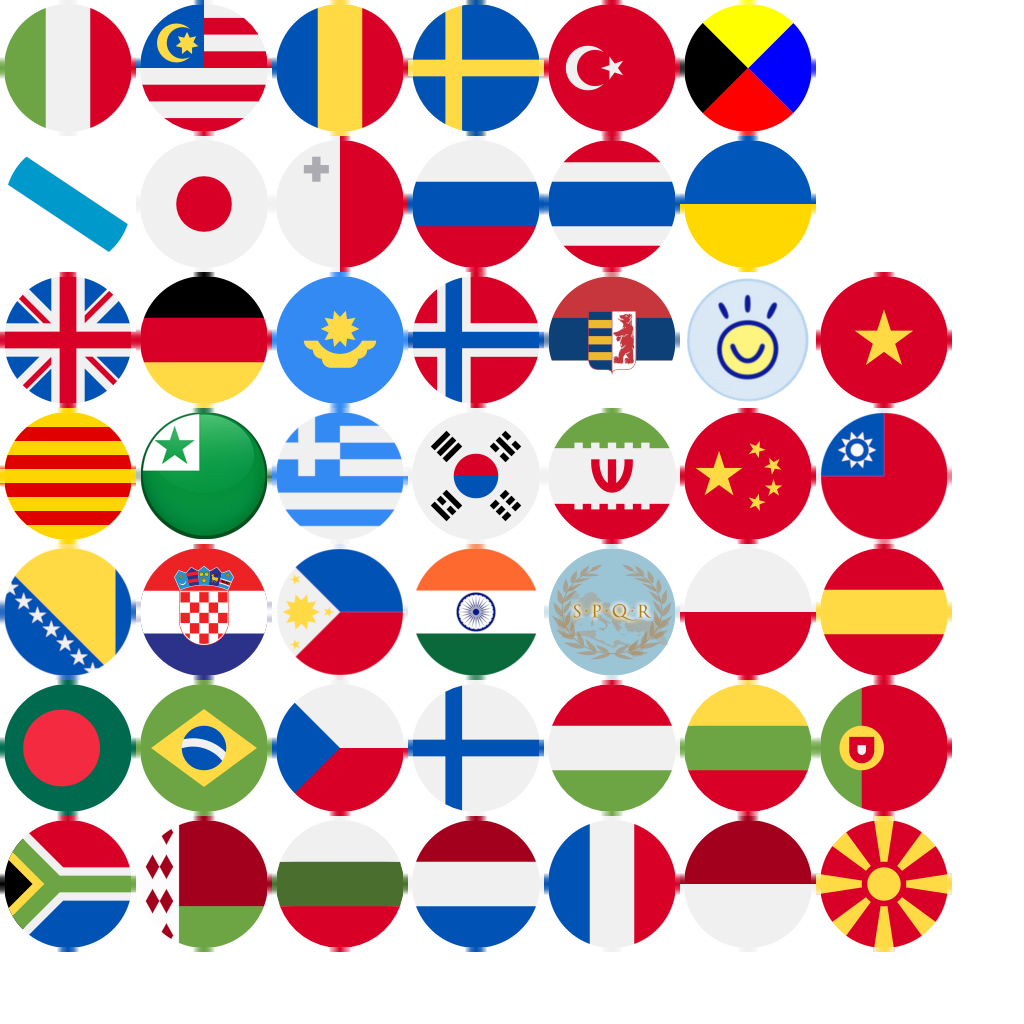
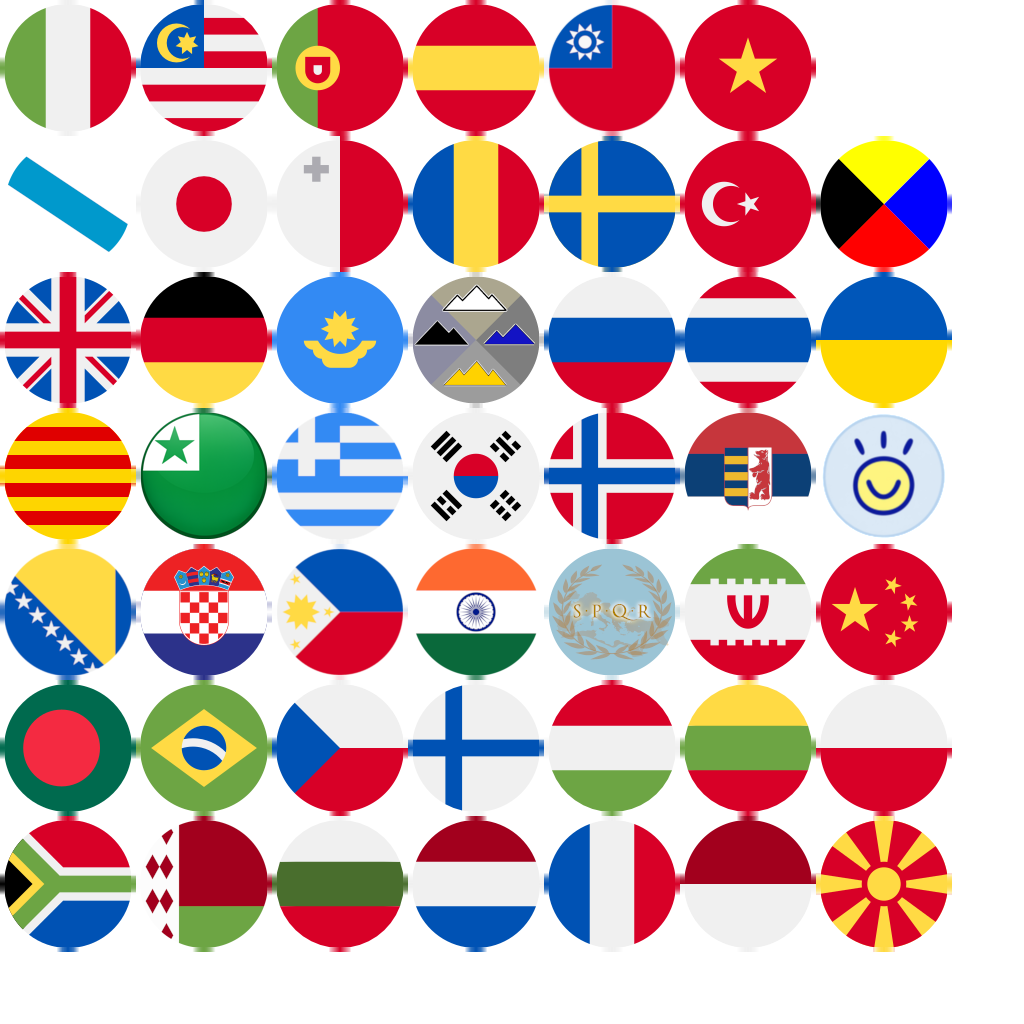
Add flag for the Navajo language

Changed region(s): [[0.375, 0.0, 0.9375, 0.6562], [0.25, 0.0, 0.375, 0.1562], [0.7812, 0.6562, 0.9375, 0.7812]]

diff --git a/docs/Credits.md b/docs/Credits.md
@@ -21,6 +21,7 @@ Flag Icons made by [Freepik](https://www.flaticon.com/authors/freepik) from [www
 -   [Zulu flag] made from [wikipedia entry for the Z flag](https://en.wikipedia.org/wiki/Z_flag#/media/File:ICS_Zulu.svg): (public domain)
 -   [Galician flag] made from [wikipedia asset for the civil flag of Galicia](https://en.wikipedia.org/wiki/File:Flag_of_Galicia_(civil).svg): (public domain)
 -   [Hindi flag] made from [wikipedia asset for India's flag](https://en.wikipedia.org/w/index.php?curid=23473510): (public domain)
+-   [Navajo flag] gimped by Sometroglodyte, inspired by [Seal of the Navajo Nation](https://en.wikipedia.org/wiki/Seal_of_the_Navajo_Nation) (public domain, [XCF available here](https://github.com/user-attachments/files/29069491/Great_Seal_of_the_Navajo_Nation.xcf.zip)
 
 Unciv logo (e.g. `extraImages/Icons/Unciv icon v6.png`, `android/assets/ExtraImages/Icons/Unciv128.png` and other files) by yairm210 and u-ndefine, licensed under CC BY 4.0. This logo includes the following icons:
 - [Gear](https://thenounproject.com/term/gear/29368) by Alex Bickov (CC BY 3.0)
